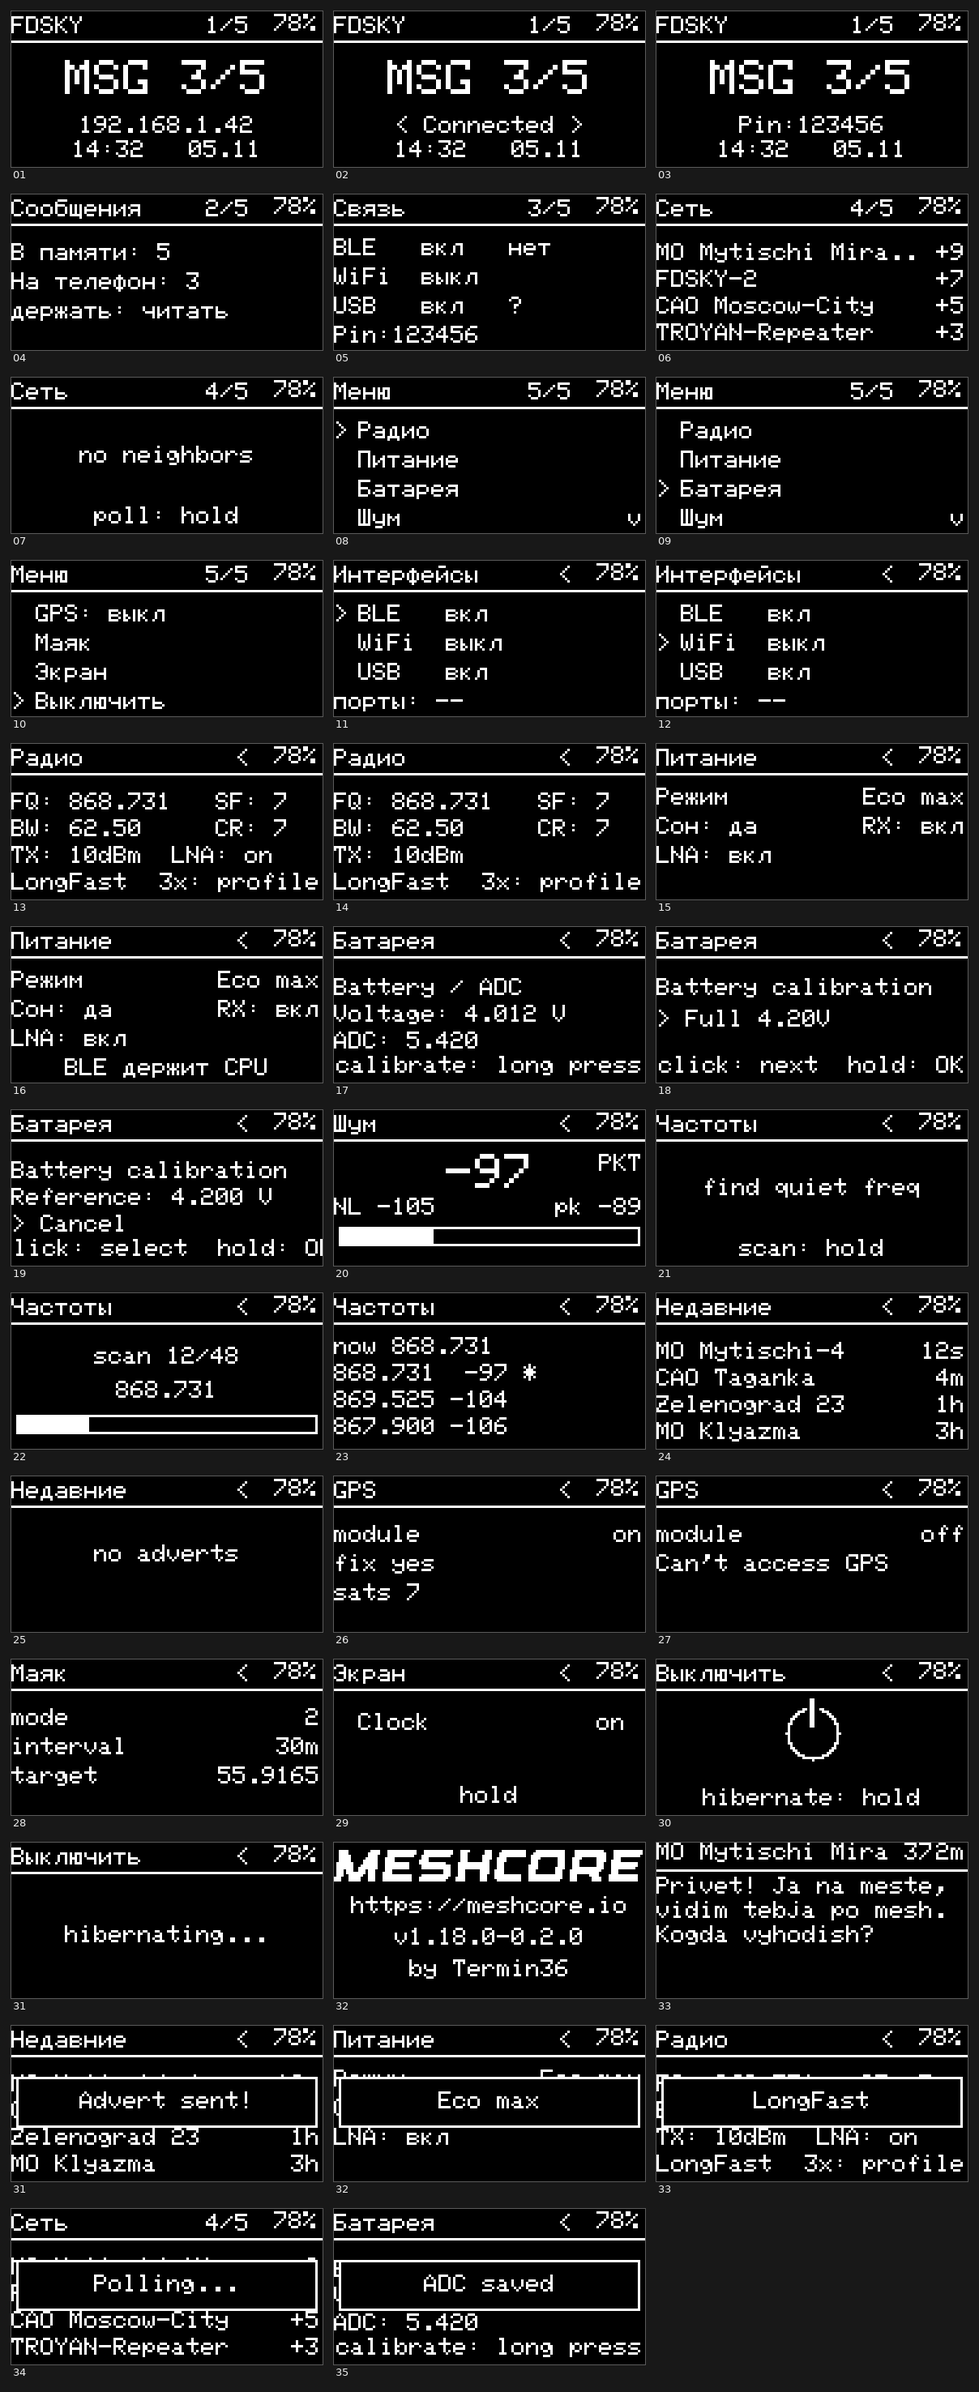
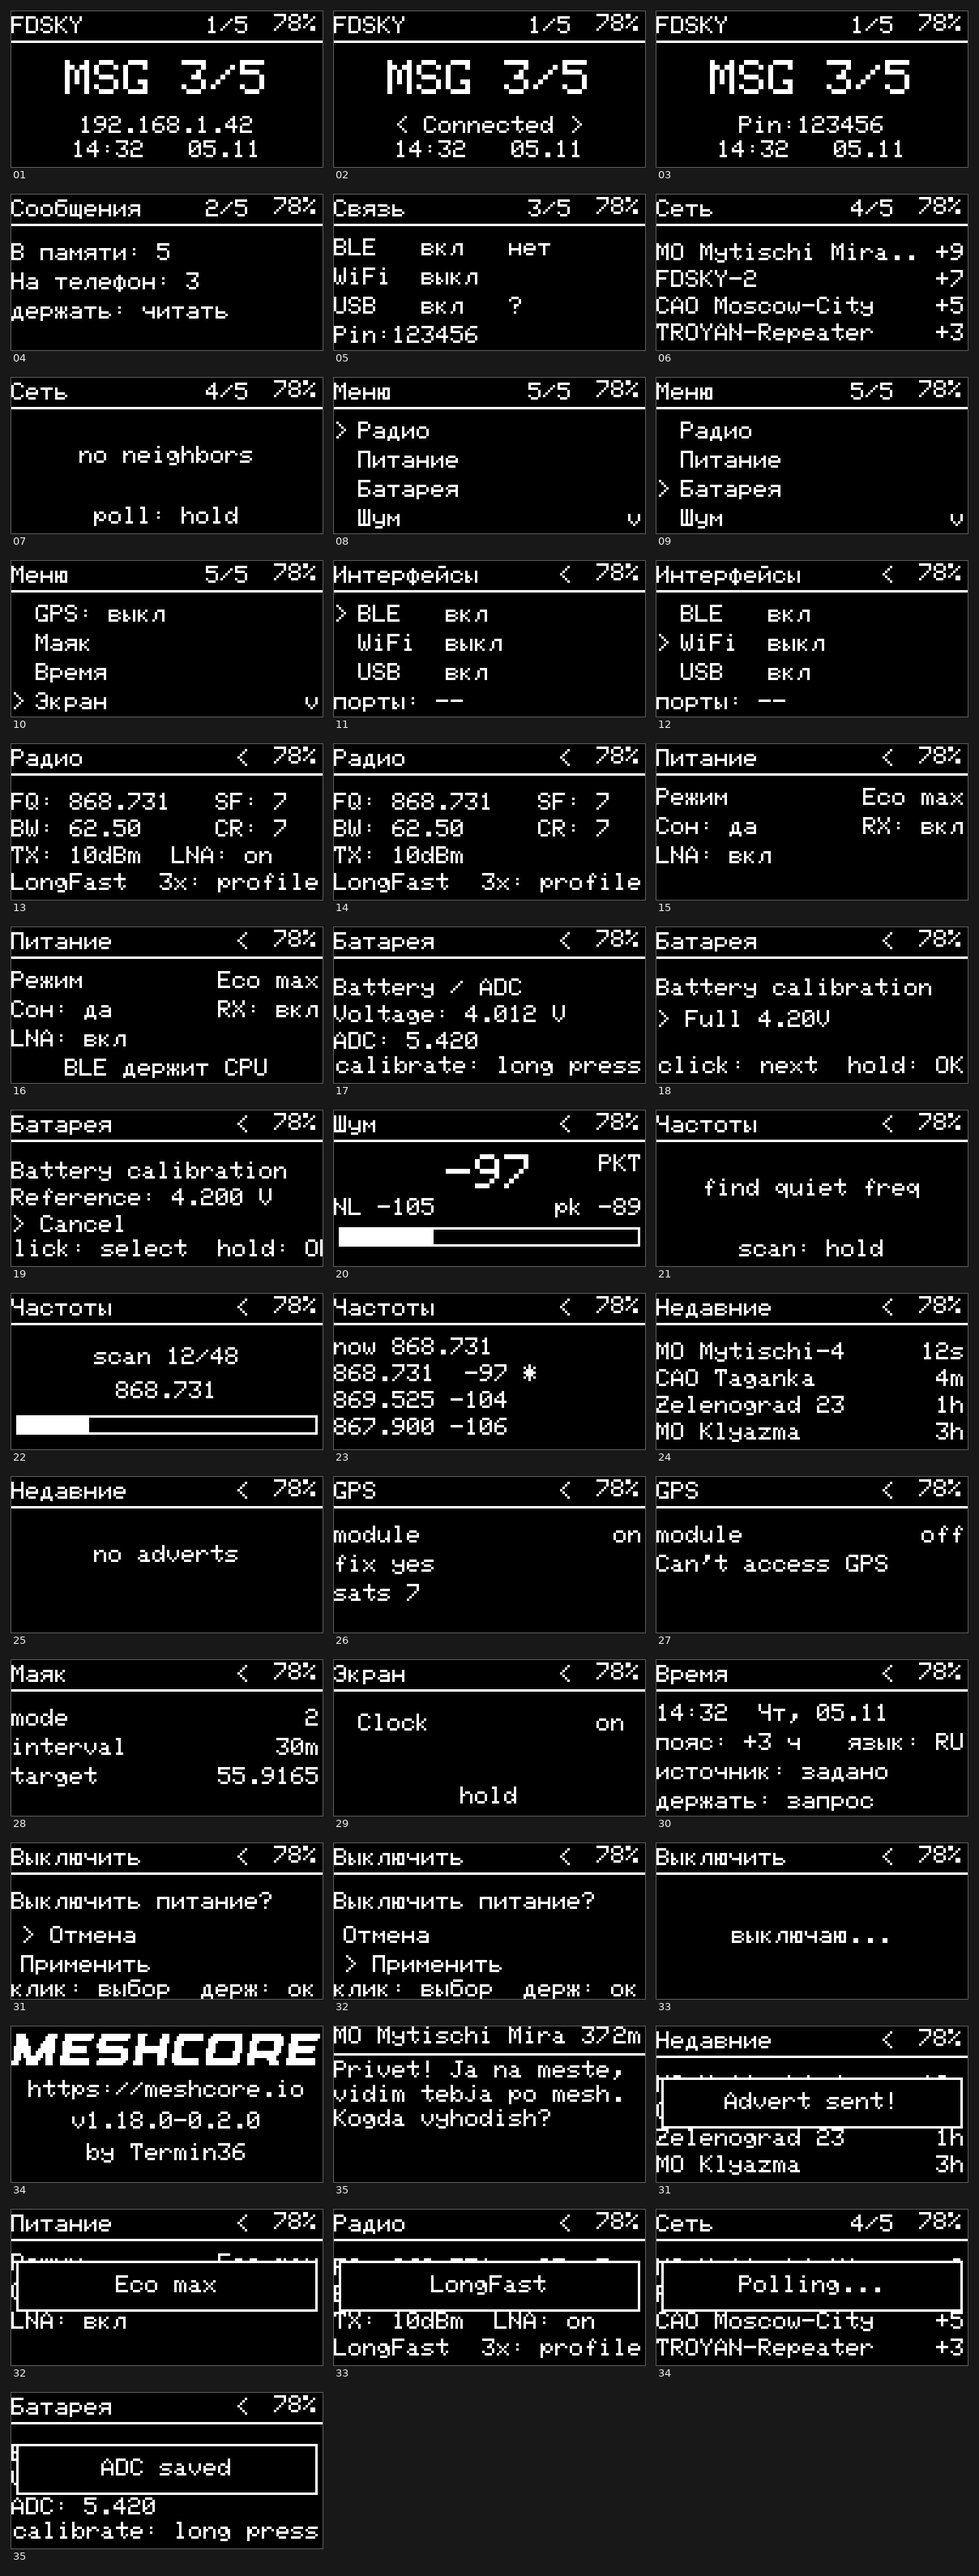
P3: time screen and a safe power-off confirmation
- new Время (TIME) sub-screen in Меню: live time and date in the configured
  timezone and language, clock source state, long press pulls the time from
  the mesh (MyMesh::pullClock) and reports when no node answers
- Выключить is now a dialog: 'Отмена' preselected, click switches between
  Отмена and Применить, hold applies. A stray long press just leaves the
  dialog instead of powering the board off; the choice resets every time
  the dialog is opened from Меню
- menu grew to 11 entries (Время before Экран)
- USER_GUIDE and mockups updated (40 states)

Changed region(s): [[0.0, 0.0, 1.0, 0.9973], [0.8882, 0.2182, 0.9801, 0.2493], [0.5207, 0.1558, 0.582, 0.187]]

diff --git a/examples/companion_radio/ui-new/UITask.cpp b/examples/companion_radio/ui-new/UITask.cpp
@@ -206,6 +206,7 @@ public:
 #if UI_SENSORS_PAGE == 1
     SENSORS,
 #endif
+    TIME,          // sub-screen: clock, date, timezone, clock pull
     SETUP,
     MENU,          // root: entry point for every settings sub-screen
     SHUTDOWN,
@@ -222,6 +223,7 @@ private:
   uint8_t _setup_row;
   bool _setup_edit;
   bool _shutdown_init;
+  bool _shutdown_apply = false;   // confirm dialog: false = Отмена (default)
 #ifdef HELTEC_LORA_V4
   uint8_t _battery_choice = 0; // full charge, reset, CLI instructions
   bool _battery_confirm = false;
@@ -518,6 +520,7 @@ private:
     n++;  // GPS
     n++;  // Маяк
 #endif
+    n++;  // Время
     n++;  // Экран
     n++;  // Выключить
     return n;
@@ -537,6 +540,7 @@ private:
     if (idx == i++) return HomePage::GPS;
     if (idx == i++) return HomePage::BEACON;
 #endif
+    if (idx == i++) return HomePage::TIME;
     if (idx == i++) return HomePage::SETUP;
     return HomePage::SHUTDOWN;
   }
@@ -563,6 +567,7 @@ private:
 #if UI_SENSORS_PAGE == 1
       case SENSORS: return "Датчики";
 #endif
+      case TIME: return "Время";
       case SETUP: return "Экран";
       case MENU: return "Меню";
       case SHUTDOWN: return "Выключить";
@@ -585,6 +590,7 @@ private:
       case HomePage::GPS: return _task->getGPSState() ? "GPS: вкл" : "GPS: выкл";
       case HomePage::BEACON: return "Маяк";
 #endif
+      case HomePage::TIME: return "Время";
       case HomePage::SETUP: return "Экран";
       case HomePage::SHUTDOWN: return "Выключить";
       default: return "?";
@@ -1321,6 +1327,35 @@ public:
       if (sensors_scroll) sensors_scroll_offset = (sensors_scroll_offset+1)%sensors_nb;
       else sensors_scroll_offset = 0;
 #endif
+    } else if (_page == HomePage::TIME) {
+      display.setTextSize(1);
+      int y = 18;
+      char tbuf[40];
+      uint32_t now = _rtc->getCurrentTime();
+      int16_t tz = _node_prefs ? _node_prefs->tz_offset_mins : 0;
+      bool valid = now >= 1000000000UL;
+      display.setColor(valid ? UIColor::primary_txt : UIColor::warning_txt);
+      if (valid) {
+        char hm[8], ds[16];
+        formatClockHm(now, tz, hm, sizeof(hm));
+        formatClockDate(now, tz, _node_prefs ? _node_prefs->ui_lang : UI_LANG_RU, ds, sizeof(ds));
+        snprintf(tbuf, sizeof(tbuf), "%s  %s", hm, ds);
+      } else {
+        snprintf(tbuf, sizeof(tbuf), "время не задано");
+      }
+      display.drawTextLeftAlign(0, y, tbuf);
+      y += 12;
+      display.setColor(UIColor::primary_txt);
+      snprintf(tbuf, sizeof(tbuf), "пояс: %+d ч", (int)(tz / 60));
+      display.drawTextLeftAlign(0, y, tbuf);
+      display.drawTextRightAlign(display.width() - 1, y,
+        (_node_prefs && _node_prefs->ui_lang == 0) ? "язык: RU" : "язык: EN");
+      y += 12;
+      display.setColor(UIColor::secondary_txt);
+      display.drawTextLeftAlign(0, y, valid ? "источник: задано" : "источник: нет");
+      y += 12;
+      display.setColor(UIColor::secondary_txt);
+      display.drawTextLeftAlign(0, y, "держать: запрос");
     } else if (_page == HomePage::SETUP) {
       uint8_t mode = _node_prefs ? _node_prefs->eink_refresh : EINK_REFRESH_CLEAR;
       if (mode >= EINK_REFRESH_COUNT) mode = EINK_REFRESH_CLEAR;
@@ -1389,15 +1424,20 @@ public:
         display.drawTextRightAlign(display.width() - 1, 18 + (rows - 1) * 12, "v");
       }
     } else if (_page == HomePage::SHUTDOWN) {
-      display.setColor(UIColor::corp_blue);
       display.setTextSize(1);
       if (_shutdown_init) {
         display.setColor(UIColor::warning_txt);
-        display.drawTextCentered(display.width() / 2, 34, "hibernating...");
+        display.drawTextCentered(display.width() / 2, 34, "выключаю...");
       } else {
+        display.setColor(UIColor::primary_txt);
+        display.drawTextLeftAlign(0, 20, "Выключить питание?");
+        // Cancel is preselected: a stray long press must not power the board off.
+        display.setColor(_shutdown_apply ? UIColor::primary_txt : UIColor::warning_txt);
+        display.drawTextLeftAlign(4, 34, _shutdown_apply ? "Отмена" : "> Отмена");
+        display.setColor(_shutdown_apply ? UIColor::warning_txt : UIColor::primary_txt);
+        display.drawTextLeftAlign(4, 46, _shutdown_apply ? "> Применить" : "Применить");
         display.setColor(UIColor::secondary_txt);
-        display.drawXbm((display.width() - 32) / 2, 18, power_icon, 32, 32);
-        display.drawTextCentered(display.width() / 2, 64 - 11, "hibernate:" PRESS_LABEL);
+        display.drawTextLeftAlign(0, 56, "клик: выбор  держ: ок");
       }
     }
     if (_page == HomePage::SCAN) {
@@ -1490,6 +1530,11 @@ public:
         neighbors_scroll_offset = 0;
         neighbors_next_scroll = 0;
       }
+      return true;
+    }
+    // Экран «Выключить»: click switches between Отмена and Применить.
+    if (_page == HomePage::SHUTDOWN && (c == KEY_NEXT || c == KEY_RIGHT)) {
+      _shutdown_apply = !_shutdown_apply;
       return true;
     }
     // МЕНЮ: click moves the marker, hold opens the selected sub-screen.
@@ -1674,6 +1719,16 @@ public:
       _setup_edit = !_setup_edit;
       return true;
     }
+    if (c == KEY_ENTER && _page == HomePage::SHUTDOWN && !_shutdown_apply) {
+      // "Отмена" was chosen: leave the dialog, the board stays on
+      leaveSub();
+      return true;
+    }
+    if (c == KEY_ENTER && _page == HomePage::TIME) {
+      bool ok = the_mesh.pullClock();
+      _task->showAlert(ok ? "запрос времени" : "некому ответить", 1200);
+      return true;
+    }
     if (c == KEY_ENTER && _page == HomePage::SHUTDOWN) {
       _shutdown_init = true;  // need to wait for button to be released
       return true;
@@ -1685,7 +1740,10 @@ public:
     // МЕНЮ: hold opens the highlighted sub-screen
     if (c == KEY_ENTER && _page == HomePage::MENU) {
       if (_menu_index >= menuCount()) _menu_index = 0;
-      enterSub(menuPageAt(_menu_index));
+      uint8_t target = menuPageAt(_menu_index);
+      // Every dialog opens with its safe choice preselected.
+      if (target == HomePage::SHUTDOWN) _shutdown_apply = false;
+      enterSub(target);
       return true;
     }
     return false;

diff --git a/tools/ui_mockups.py b/tools/ui_mockups.py
@@ -270,7 +270,7 @@ def s_messages():
 
 def s_menu(sel=0):
     items = ["Радио", "Питание", "Батарея", "Шум", "Частоты", "Недавние",
-             "GPS: выкл", "Маяк", "Экран", "Выключить"]
+             "GPS: выкл", "Маяк", "Время", "Экран", "Выключить"]
     img, px = screen("Меню", 5)
     start = 0
     if sel >= 4:
@@ -439,15 +439,29 @@ def s_setup():
 def s_shutdown(state="ready"):
     img, px = screen("Выключить", sub=True)
     if state == "hibernating":
-        draw_centered(px, 34, "hibernating...", 1)
+        draw_centered(px, 34, "выключаю...", 1)
         return img
-    cx, cy, r = W // 2, 30, 11
-    for a in range(0, 360):
-        if 250 < a < 290:
-            continue
-        px_set(px, cx + int(r * math.cos(math.radians(a))), cy + int(r * math.sin(math.radians(a))))
-    fill_rect(px, cx - 1, cy - r - 3, 2, 12)
-    draw_centered(px, 53, "hibernate: hold", 1)
+    draw_text(px, 0, 20, "Выключить питание?", 1)
+    draw_text(px, 4, 34, "> Отмена", 1)      # safe choice, preselected
+    draw_text(px, 4, 46, "Применить", 1)
+    draw_text(px, 0, 56, "клик: выбор  держ: ок", 1)
+    return img
+
+def s_shutdown_apply():
+    img, px = screen("Выключить", sub=True)
+    draw_text(px, 0, 20, "Выключить питание?", 1)
+    draw_text(px, 4, 34, "Отмена", 1)
+    draw_text(px, 4, 46, "> Применить", 1)
+    draw_text(px, 0, 56, "клик: выбор  держ: ок", 1)
+    return img
+
+def s_time():
+    img, px = screen("Время", sub=True)
+    draw_text(px, 0, 18, "14:32  Чт, 05.11", 1)
+    draw_text(px, 0, 30, "пояс: +3 ч", 1)
+    draw_right(px, 30, "язык: RU", 1)
+    draw_text(px, 0, 42, "источник: задано", 1)
+    draw_text(px, 0, 54, "держать: запрос", 1)
     return img
 
 # ----------------------------------------------------------------- build
@@ -481,10 +495,12 @@ SCREENS = [
     ("27-sub-gps-unavailable",        "Подэкран GPS: модуль недоступен",                       s_gps(False)),
     ("28-sub-beacon",                 "Подэкран Маяк: режим, интервал, цель",                  s_beacon()),
     ("29-sub-screen-time",            "Подэкран Экран: настройки дисплея",                     s_setup()),
-    ("30-sub-shutdown",               "Подэкран Выключить: подтверждение",                     s_shutdown("ready")),
-    ("31-sub-shutdown-progress",      "Подэкран Выключить: процесс пошёл",                     s_shutdown("hibernating")),
-    ("32-boot-splash",                "Заставка при загрузке",                                 s_splash()),
-    ("33-message-preview",            "Просмотр сообщения (без шапки)",                        s_msg_preview()),
+    ("30-sub-time",                   "Подэкран Время: часы, пояс, источник",                    s_time()),
+    ("31-sub-shutdown",               "Подэкран Выключить: подтверждение, «Отмена» по умолчанию", s_shutdown("ready")),
+    ("32-sub-shutdown-apply",         "Подэкран Выключить: выбрано «Применить»",                s_shutdown_apply()),
+    ("33-sub-shutdown-progress",      "Подэкран Выключить: процесс пошёл",                      s_shutdown("hibernating")),
+    ("34-boot-splash",                "Заставка при загрузке",                                 s_splash()),
+    ("35-message-preview",            "Просмотр сообщения (без шапки)",                        s_msg_preview()),
 ]
 
 ALERTS = [

diff --git a/USER_GUIDE.md b/USER_GUIDE.md
@@ -25,7 +25,7 @@ goes back, a long press performs that screen's action.
 |---|---|---|---|
 | **Click** | — | next root | `Меню` / `Связь`: move the `>` marker; otherwise nothing |
 | **Double click** | < 280 ms between clicks | previous root | back to the parent screen |
-| **Long press** | 1000 ms | `Меню`: open the selected screen, `Связь`: open `Интерфейсы`, `Сообщения`/главная: message preview | the screen's own action (toggle, scan, calibrate) |
+| **Long press** | 1000 ms | `Меню`: open the selected screen, `Связь`: open `Интерфейсы`, `Сообщения`/главная: message preview | the screen's own action (toggle, scan, calibrate); on the power-off dialog — apply the highlighted choice |
 | **Triple click** | — | `Радио`: next radio profile, `Маяк`: next interval | same |
 | **Quad click** | — | `Маяк`: stop the beacon | same |
 | **Boot rescue** | long press within 8 s after power-on | CLI rescue mode | — |
@@ -51,7 +51,7 @@ Sub-screens — entered from a root, left with a double click:
 2 Сообщения --hold--> просмотр сообщений
 3 Связь     --hold--> Интерфейсы (BLE / WiFi / USB, порты 5000 и 5001)
 5 Меню      --hold--> Радио · Питание · Батарея · Шум · Частоты · Недавние
-                      GPS · Маяк · Экран · Выключить
+                      GPS · Маяк · Время · Экран · Выключить
                 Батарея --hold--> Калибровка АЦП
 ```
 
@@ -170,9 +170,30 @@ LNA on
 - in edit mode: **click** → next row, **triple click** → change value
 
 ### Выключить (SHUTDOWN) — подэкран меню
-- power icon and `hibernate: hold`
-- **Long press** → power off (executes on button release)
-- wake after hibernate: none. `powerOff()` routes to `enterDeepSleep(0)`, which calls `esp_sleep_disable_wakeup_source(ESP_SLEEP_WAKEUP_ALL)`, so only a physical reset / power cycle brings the board back. Wake-on-LoRa (DIO1) is not enabled by this build.
+```
+Выключить питание?
+> Отмена
+  Применить
+клик: выбор  держ: ок
+```
+- a confirmation dialog, **`Отмена` is preselected** — a stray long press only leaves the dialog
+- **Click** → switch between `Отмена` and `Применить`
+- **Long press** → apply the selected choice (execution happens after the button is released)
+- after hibernate there is no wake source: `powerOff()` routes to `enterDeepSleep(0)`, which
+  disables every wakeup source, so only a physical reset / power cycle brings the board back
+
+### Время (TIME) — подэкран меню
+```
+14:32  Чт, 05.11
+пояс: +3 ч        язык: RU
+источник: задано
+держать: запрос
+```
+- live time and date in the configured timezone (`tz_offset_mins`) and language
+- `источник: задано` once the clock was set by GPS, the phone, a trusted node or CLI;
+  `источник: нет` plus `время не задано` while the RTC still holds its reset value
+- **Long press** → ask the mesh for the time (`pullClock()`); the alert reports if there
+  is no node to answer
 
 ### Просмотр сообщения
 - sender in the top-left corner, age in the top-right corner, rule at y=11, wrapped text below

diff --git a/docs/ui-mockups/README.md b/docs/ui-mockups/README.md
@@ -38,10 +38,12 @@
 | `27-sub-gps-unavailable.png` | sub-gps-unavailable | Подэкран GPS: модуль недоступен |
 | `28-sub-beacon.png` | sub-beacon | Подэкран Маяк: режим, интервал, цель |
 | `29-sub-screen-time.png` | sub-screen-time | Подэкран Экран: настройки дисплея |
-| `30-sub-shutdown.png` | sub-shutdown | Подэкран Выключить: подтверждение |
-| `31-sub-shutdown-progress.png` | sub-shutdown-progress | Подэкран Выключить: процесс пошёл |
-| `32-boot-splash.png` | boot-splash | Заставка при загрузке |
-| `33-message-preview.png` | message-preview | Просмотр сообщения (без шапки) |
+| `30-sub-time.png` | sub-time | Подэкран Время: часы, пояс, источник |
+| `31-sub-shutdown.png` | sub-shutdown | Подэкран Выключить: подтверждение, «Отмена» по умолчанию |
+| `32-sub-shutdown-apply.png` | sub-shutdown-apply | Подэкран Выключить: выбрано «Применить» |
+| `33-sub-shutdown-progress.png` | sub-shutdown-progress | Подэкран Выключить: процесс пошёл |
+| `34-boot-splash.png` | boot-splash | Заставка при загрузке |
+| `35-message-preview.png` | message-preview | Просмотр сообщения (без шапки) |
 | `31-alert-advert-sent.png` | alert-advert-sent | Всплывающее: advert отправлен |
 | `32-alert-power-mode.png` | alert-power-mode | Всплывающее: смена профиля |
 | `33-alert-radio-profile.png` | alert-radio-profile | Всплывающее: смена радио-профиля |
